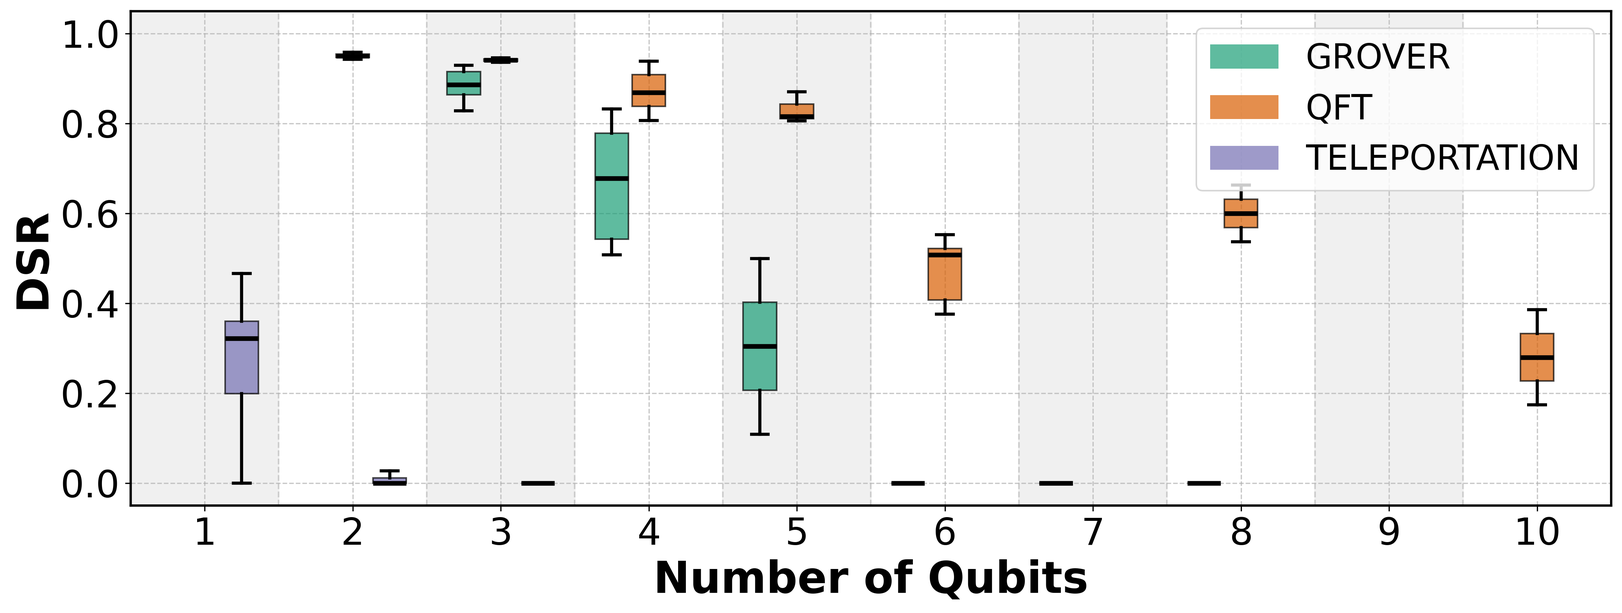
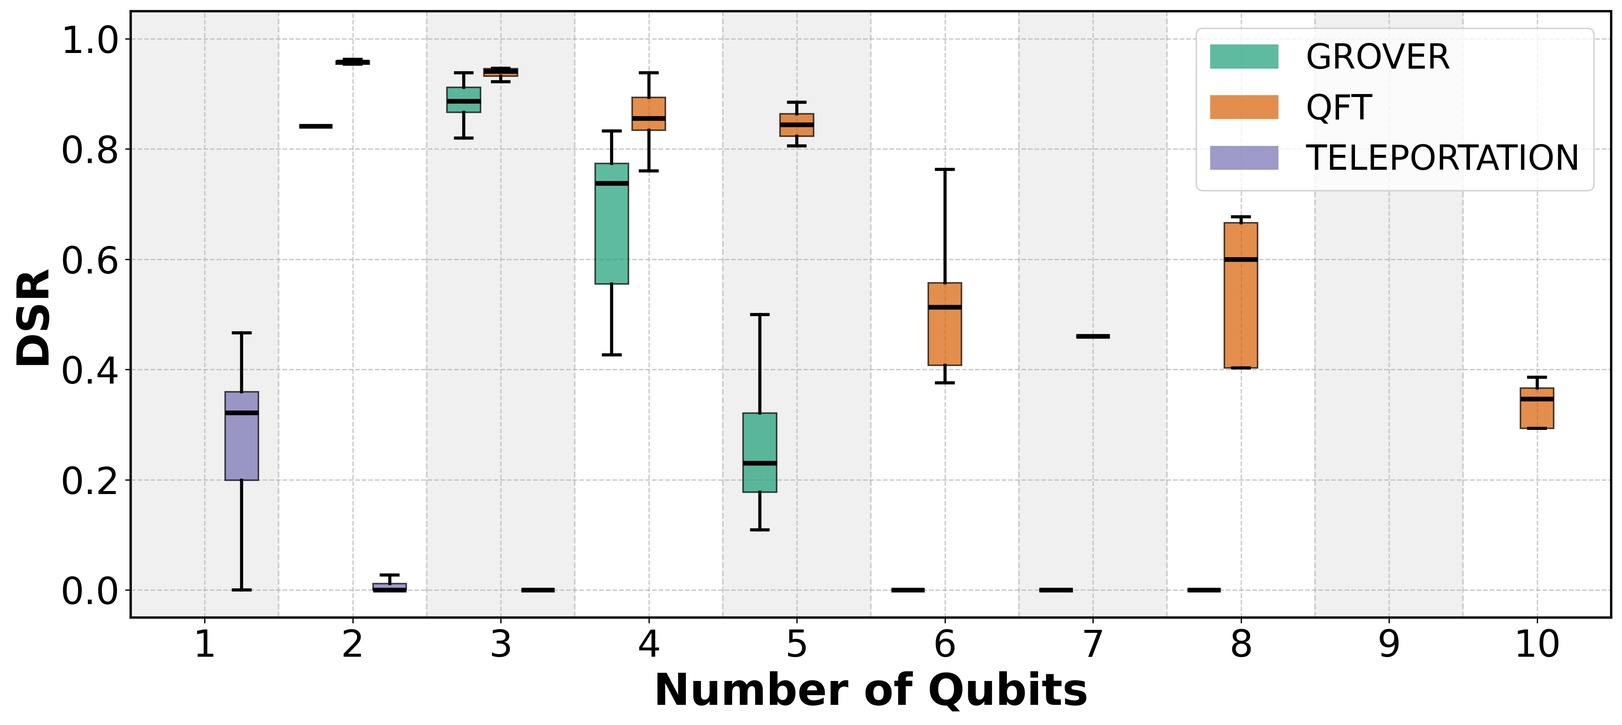
Update DSR analysis and visualizations in differential_success_rate_analysis.py and main.tex
This commit modifies the differential success rate (DSR) analysis by updating labels in plots to use a more precise mathematical notation. It also enhances the data preparation function to accept multiple optimization levels instead of a single one, improving flexibility in data filtering. Additionally, the title in main.tex is revised for clarity, and the introduction section is refined to better explain the DSR metric and its significance in quantum computing. Several plot files are updated to reflect these changes.

diff --git a/qward/examples/papers/main.tex b/qward/examples/papers/main.tex
@@ -60,7 +60,7 @@
     T\kern-.1667em\lower.7ex\hbox{E}\kern-.125emX}}
 \begin{document}
 
-\title{Differential Success Rate (DSR): A Distribution-Aware Metric for Validating Quantum Algorithm Outputs}
+\title{Differential Success Rate (DSR): A Distribution-Aware Score for Validating Quantum Algorithm Outputs}
 
 % \author{\IEEEauthorblockN{1\textsuperscript{st} Cristian Marquez}
 % \IEEEauthorblockA{\textit{Department of Systems and Computing Engineering} \\
@@ -120,48 +120,48 @@ Quantum computing, quantum software testing, fidelity metrics, quantum benchmark
 
 \section{Introduction}
 
-Ensuring successful execution of a program is a key requirement in software engineering. In classical computing, this process is done by directly comparing the observed output against an expected value. In other words, each execution produces a reproducible output. However, this deterministic validation model is not applicable in the QC realm, since in order to take advantage of quantum mechanics, it is required to run an algorithm multiple times and then analyze the resulting distribution to validate the execution success.
+Ensuring successful execution of a program is a key requirement in software engineering. In classical computing, this process is done by directly comparing the observed output against an expected value. In other words, each execution produces a reproducible output. However, this deterministic validation model is not applicable in the Quantum Computing (QC) realm, since in order to take advantage of quantum mechanics, it is required to run an algorithm multiple times and then analyze the resulting distribution to validate the execution success.
 
 In particular, a single run of a quantum algorithm produces a single classical state \cite{nielsenQuantumComputationQuantuma_2010}. Yet, to take advantage of quantum phenomena such as entanglement, superposition, and interference, it is necessary to construct a probability distribution over all possible outcomes by running the algorithm multiple times. Today, a histogram is typically used to represent this output, where the x-axis corresponds to the possible bit-string outcomes, and the y-axis counts the frequency of the observed values. By contrast, in hardware based on quantum annealing \cite{Hauke_2020_2020}, the output corresponds to the physical configuration of the system (a specific bit string) that represents the ground state (or a low-energy configuration). Another alternative to histograms is seen in variational algorithms \cite{McClean_2016_2016}, where quantum hardware outputs a real scalar value (the expected value of a cost function, such as energy), which is used as input to a classical optimizer to finally produce a bit-string result.
 
-The probability distributions described above are accessible through the SDKs or APIs provided by the quantum hardware vendors, most of which use superconducting qubits for the built-in quantum processing unit (QPU). A common feature of such SDKs is the ability to compute histograms of execution outcomes. This motivates the creation of a metric that quantifies how distinctly the expected outcomes stand out within the observed distribution.
+The probability distributions described above are accessible through the SDKs or APIs provided by the quantum hardware vendors, most of which use superconducting qubits for the built-in quantum processing unit (QPU). A common feature of such SDKs is the ability to compute histograms of execution outcomes. This motivates the creation of DSR, a score that quantifies how distinctly the expected outcomes stand out within the observed distribution.
 
-Before introducing such a metric, it is worth considering the applicability of classical performance metrics in quantum software; although doing so restricts the evaluation of quantum success to a classical paradigm in which the observed outcomes are fundamentally stochastic. More precisely, classical success measures can be defined at the shot level, but, because quantum processes require repeated executions to obtain meaningful results, the success measure should be formulated at the job level and, in some scenarios, even at the batch level.
+Before introducing such DSR, it is worth considering the applicability of classical performance metrics in quantum software; although doing so restricts the evaluation of quantum success to a classical paradigm in which the observed outcomes are fundamentally stochastic. More precisely, classical success measures can be defined at the shot level, but, because quantum processes require repeated executions to obtain meaningful results, the success measure should be formulated at the job level and, in some scenarios, even at the batch level.
 
-Several metrics have been proposed to quantify the successful execution of quantum circuits \cite{mohapatraBenchmarkingFidelityMetrics_2025}; however, most of them are designed to characterize the fidelity of the quantum hardware rather than to evaluate how distinctly a target outcome emerges in the observed distribution. Section~\ref{sec:related-work} explores these metrics in detail and positions the DSR relative to them.
+Several metrics have been proposed to quantify the successful execution of quantum circuits \cite{mohapatraBenchmarkingFidelityMetrics_2025}; however, most of them are designed to characterize the fidelity of the quantum hardware rather than to evaluate how distinctly a target outcome emerges in the observed distribution. Section~\ref{sec:related-work} explores these metrics in detail and positions DSR relative to them.
 
-In this paper, we introduce the differential success rate (DSR), a quantitative metric designed to measure the level of distinction of a target quantum state within a given histogram. The DSR is expressed as a percentage, thereby serving as an indicator of how clearly the expected quantum state emerges relative to the observed probability distribution generated by current noisy intermediate-scale quantum (NISQ) devices.
+In this paper, we introduce the differential success rate (DSR), a quantitative indicator designed to measure the level of distinction of a target quantum state within a given histogram. The DSR is expressed as a score in $[0,\,1]$, thereby serving as an indicator of how clearly the expected quantum state emerges relative to the observed probability distribution generated by current noisy intermediate-scale quantum (NISQ) devices.
 
-To characterize the behavior of DSR, we first execute the Grover and quantum Fourier transform algorithms using the AER simulator parameterized with the hardware calibration values reported for QPUs commonly available from major quantum service providers. The DSR metric is then integrated into qWard, a Python-based framework for the analysis of quantum circuits. Finally, we run the corresponding circuits on the physical QPUs \textit{ibm\_fez}, \textit{ibm\_torino}, and \textit{ibm\_marrakesh}---three instances of the IBM Heron~R2 processor---accessed via the IBM Quantum service, as well as on the Rigetti \textit{Ankaa-3} device accessed via Amazon Web Services (AWS).
+To characterize the behavior of DSR, we first execute the Grover and quantum Fourier transform algorithms using the AER simulator parameterized with calibration values reported for QPUs commonly available from major quantum service providers. DSR is then integrated into qWard, a Python-based framework for the analysis of quantum circuits. Finally, we run the corresponding circuits on the physical QPUs \textit{ibm\_fez}, \textit{ibm\_torino}, and \textit{ibm\_marrakesh}---three instances of the IBM Heron~R2 processor---accessed via the IBM Quantum service, as well as on the Rigetti \textit{Ankaa-3} device accessed via Amazon Web Services (AWS).
 
-Our experiments demonstrate the usefulness of the DSR metric for improving the interpretability of quantum jobs by defining clear ranges of success for the Grover and QFT algorithms, on two quantum providers (4 different QPUs). Such intervals are determined by systematically scaling and executing the algorithms, computing the DSR, and correlating its values with the corresponding number of qubits and the circuit depth. In addition, we empirically compare DSR against HF and TVDF, showing that the metrics capture complementary aspects of algorithm success.
+Our experiments demonstrate the usefulness of DSR for improving the interpretability of quantum jobs by defining clear ranges of success for the Grover and QFT algorithms, on two quantum providers (4 different QPUs). Such intervals are determined by systematically scaling and executing the algorithms, computing the DSR, and correlating its values with the corresponding number of qubits and the circuit depth. In addition, we empirically compare DSR against HF and TVDF, showing that the metrics capture complementary aspects of algorithm success.
 
-The remainder of this paper is organized as follows. Section~\ref{sec:background} presents background work. Section~\ref{sec:related-work} reviews related fidelity metrics. Section~\ref{sec:measuring-success} introduces the execution model and success criteria, while Section~\ref{sec:dsr} defines the DSR metric and evaluates alternative formulations. Section~\ref{subsec:experiment} describes the setup of the experiment, including workloads, backends, and variables. Section~\ref{sec:results} reports the empirical results: the relationship between DSR and qubit count, circuit depth, optimization level, and a statistical comparison with Hellinger and TVD fidelity. Section~\ref{sec:discussion} discusses limitations and validity considerations, and Section~\ref{sec:conclusion} concludes the paper.
+The remainder of this paper is organized as follows. Section~\ref{sec:background} presents background work. Section~\ref{sec:related-work} reviews related fidelity metrics. Section~\ref{sec:measuring-success} introduces the execution model and success criteria, while Section~\ref{sec:dsr} defines DSR and evaluates alternative formulations. Section~\ref{subsec:experiment} describes the setup of the experiment, including workloads, backends, and variables. Section~\ref{sec:results} reports the empirical results: the relationship between DSR and qubit count, circuit depth, optimization level, and a statistical comparison with Hellinger and TVD fidelity. Section~\ref{sec:discussion} discusses limitations and validity considerations, and Section~\ref{sec:conclusion} concludes the paper.
 
 \section{Background}
 \label{sec:background}
 
-This study builds on two previous studies \cite{qward2026, vTPMarquez_2026}. The first is the qWard project, a Python-based framework library designed for the analysis of quantum circuits and their executions. The second study presents our initial investigation into the execution success of quantum algorithms, as reported in IEEE Access in early 2026. In that work, we introduced a variation of the quantum teleportation protocol and proposed a systematic methodology to evaluate its success.
+This study builds on two previous studies \cite{qward2026, vTPMarquez_2026}. The first is the qWard project, a Python-based framework library designed for the analysis of quantum circuits and their executions. The second study presents our initial investigation into the execution success of quantum algorithms. In that work, we introduced a variation of the quantum teleportation protocol and proposed a systematic methodology to evaluate its success.
 
 With qWard, our aim was to describe quantum algorithms through a set of quantitative metrics computed prior to algorithm execution (designated as pre-runtime metrics). Following the execution of the algorithm, qWard further provides tools to analyze the resulting probability distribution by using a set of post-runtime metrics, with the aim of facilitating the identification of correlations between pre-runtime and post-runtime characteristics.
 
 To provide evidence for a correlation between pre-runtime and post-runtime metrics, we conducted a follow-up study examining how these metrics evolve under a variation of the teleportation protocol. Specifically, we first prepare a quantum circuit to transmit a message and then apply its transposed version with the objective of reconstructing the original input state before applying the measurement operation. In this experiment, the success function quantifies the number of instances in which the algorithm correctly reconstructs the initial state.
 
-Based on the findings of the two previous studies, we developed DSR as a post-runtime metric. These results allowed us to establish the necessary tooling for our quantum development workflow, in which we compute pre-runtime metrics, run the quantum algorithms, and finally compute post-runtime metrics in order to determine the success rate.
+These results allowed us to establish the necessary tooling for our quantum development workflow, in which we compute pre-runtime metrics, run the quantum algorithms, and finally compute post-runtime metrics to determine the success rate. Building on this workflow, we developed DSR as a post-runtime score.
 
 \section{Related work}
 \label{sec:related-work}
 
-In this section, we examine several standard metrics employed to quantify the successful execution of quantum algorithms and compare them with the DSR metric.
+In this section, we examine several standard metrics employed to quantify the successful execution of quantum algorithms and compare them with DSR.
 
-\subsection{Density-Matrix Based Fidelity}
+\subsection{Density-Matrix (DM) Based Fidelity}
 \label{sec:sec:desity-matrix}
 
 The validation of a quantum program via the density matrix constitutes a natural first step towards characterizing algorithm execution, and was presented in detail by Uhlmann in \cite{UHLMANN1976273_1976}. In summary, the density matrix fidelity (DM fidelity) process starts by calculating the theoretical value of the quantum operation. Then, the resulting density matrix is derived to compare it with the theoretical expectation and finally determine the discrepancy between the two values.
 
-Although DM fidelity is a robust way to validate the execution of a quantum algorithm, from the perspective of software engineering, it is highly impractical \cite{LI20146878_2014}. First, the QPU does not directly produce a density matrix; instead, it outputs classical bit strings. Reconstructing the density matrix would require performing full quantum state tomography, an operation that is computationally expensive, thereby making the procedure computationally infeasible in practice. Second, even though it is possible to generate the ideal state by using a simulator (for instance, AER), the size of the matrices grows exponentially with the number of qubits, so it is impossible to compute the ideal density matrix using classical resources. In other words, the target density matrix for practical applications is fundamentally unknown.
+Although DM fidelity is a robust way to validate the execution of a quantum algorithm, from the perspective of software engineering, it is highly impractical \cite{LI20146878_2014}. First, the QPU does not directly produce a density matrix; instead, it outputs bit strings. Reconstructing the density matrix would require performing full quantum state tomography, an operation that is computationally expensive, thereby making the procedure computationally infeasible in practice. Second, even though it is possible to generate the ideal state by using a simulator (for instance, AER), the size of the matrices grows exponentially with the number of qubits, so it is impossible to compute the ideal density matrix using classical resources. In other words, the target density matrix for practical applications is fundamentally unknown.
 
-\subsection{Estimated Success Probability}
+\subsection{Estimated Success Probability (ESP)}
 
 A typical way to evaluate how successfully a program runs is to estimate the success rate associated with each component involved in its operation. In the context of QC, this can be achieved by combining the success probabilities of individual operations (such as gates and measurements). During the calibration of a QPU, a quantum provider reports the error rate associated with each operation; therefore, the ESP is obtained by computing the success rate of each element (i.e. \(1 - \text{error}\)) and then taking the product of these success rates over all the circuit operations.
 
@@ -196,12 +196,12 @@ During the execution phase, the developer plans and executes a job on the QPU. A
 
 During the analysis phase, the developer pulls data from the quantum provider until the job is reported as complete. The quantum provider returns multiple bit strings that are ultimately consolidated into a histogram. With all responses ready, the goal now is to determine whether the response was successful. It is important to note that during the development phase, an initial version of the analysis is produced, but the analysis is often refined later, once the real data are available.
 
-The main goal of DSR is to facilitate the interpretation of quantum algorithm results and to act as a low-cost validation step at every stage of the development lifecycle. Because it depends on the histogram and the expected quantum state, this metric is meant to be applied in all the development phases described above whenever both requirements are met.
+The main goal of DSR is to facilitate the interpretation of quantum algorithm results and to act as a low-cost validation step at every stage of the development lifecycle. Because it depends on the histogram and the expected quantum state, this indicator is meant to be applied in all the development phases described above whenever both requirements are met.
 
 \section{Differential Success Rate}
 \label{sec:dsr}
 
-The DSR is defined as a metric that quantifies how well a target quantum state can be distinguished from the other values in a histogram. The DSR utilizes the Michelson contrast formulation \cite{michelsonInterferenceMethods_1890, michelsonStudiesOptics_1927} as it provides three characteristics that are desirable for validating QC algorithms: (i) scale invariance, since the DSR does not depend on the total number of shots, it captures the shape of the distribution rather than the size of the sampling budget; (ii) a bounded range in $[0, 1]$, to follow the conventions of the fidelity metrics; and (iii) sensitivity to the relative distinction between the expected outcome and the next strongest peak, rather than to the absolute success probability.
+The DSR is defined as a score that quantifies how well a target quantum state can be distinguished from the other values in a histogram. The DSR utilizes the Michelson contrast formulation \cite{michelsonInterferenceMethods_1890, michelsonStudiesOptics_1927} as it provides three characteristics that are desirable for validating QC algorithms: (i) scale invariance, since the total number of shots $S$ cancels out algebraically (see Equations~\eqref{eq:p_x}--\eqref{eq:dsr}), the score depends only on the relative strength between the expected outcomes and the strongest competitor; however, this property holds in practice only under sufficient sampling or low-noise conditions, as few shots may produce histograms that do not accurately reflect the algorithm outcome; (ii) a bounded range in $[0, 1]$, to follow the conventions of the fidelity metrics; and (iii) sensitivity to the dominance of the expected outcome over the strongest competitor, rather than to the absolute success probability.
 
 Although DSR eliminates the need for computationally expensive simulations of the ideal probability distribution, it still inherits the limitations of existing metrics derived from algorithm outcomes. These include the inability to capture information about phase-related errors and the restriction to problems for which the target state is known.
 
@@ -235,7 +235,7 @@ Based on these definitions, Equation~\eqref{eq:p_exp} represents the total proba
 
 Observe that when $S = 0$, the probability estimates $p_x$ are \emph{undefined} due to Equation~\eqref{eq:p_x}, and when $E$ is empty, $K = 0$ renders Equation~\eqref{eq:p_exp_bar} \emph{undefined}; in both cases the DSR is reported as 0. In contrast, if all observed states reside in $E$, then the set $\{x \notin E\}$ is \emph{empty}, and Equation~\eqref{eq:p_comp} has no terms. By convention, we set $p_{\text{comp}} = 0$, reflecting the absence of any competing outcome; substituting in Equation~\eqref{eq:dsr} results in $\mathrm{DSR} = \bar{p}_{\text{exp}}\,/\,\bar{p}_{\text{exp}} = 1$ (given $\bar{p}_{\text{exp}} > 0$).
 
-\subsection{Metric}
+\subsection{Formulation}
 
 Applying the Michelson contrast to $\bar{p}_{\text{exp}}$ and $p_{\text{comp}}$, the DSR is defined as:
 
@@ -315,7 +315,7 @@ Based on this analysis, we select the Michelson formulation to compute the DSR. 
 
 % \subsection{Software implementation}
 
-% To implement the metric in software, two dedicated functions are required. Listing~\ref{lst:peaks} presents the procedure used in the qWard library to extract $\bar{p}_{\text{exp}}$ and $p_{\text{comp}}$ from a histogram, while Listing~\ref{lst:dsr} demonstrates the application of Equation~\eqref{eq:dsr} to compute the final score.
+% To implement the indicator in software, two dedicated functions are required. Listing~\ref{lst:peaks} presents the procedure used in the qWard library to extract $\bar{p}_{\text{exp}}$ and $p_{\text{comp}}$ from a histogram, while Listing~\ref{lst:dsr} demonstrates the application of Equation~\eqref{eq:dsr} to compute the final score.
 
 % \begin{lstlisting}[caption={Extraction of $\bar{p}_{\text{exp}}$ and
 % $p_{\text{comp}}$ from a histogram.}, label=lst:peaks]
@@ -392,16 +392,16 @@ The independent variables of the experiment are the algorithm, the circuit confi
 \section{Results}
 \label{sec:results}
 
-This section presents the empirical results of 1{,}183 QPU runs covering jobs based on the Grover, QFT, and vTP algorithms (203, 184, and 796 jobs, respectively). Our analysis covers the DSR degration as a function of qubit count scaling and the circuit depth. We also benchmark DSR against HF and TVDF to highlight how their behaviors complement each other.
+This section presents the empirical results of 1{,}183 QPU runs covering jobs based on the Grover, QFT, and vTP algorithms (203, 184, and 796 jobs, respectively). Our analysis covers the DSR degradation as a function of qubit count scaling and the circuit depth. We also benchmark DSR against HF and TVDF to highlight how their behaviors complement each other.
 
 \subsection{DSR versus number of qubits}
 
-Figure~\ref{fig:combined_qubits} shows the DSR distribution of each algorithm as a function of the number of qubits, using the optimization level~3 offered by Qiskit.
+Figure~\ref{fig:combined_qubits} shows the DSR distribution of each algorithm as a function of the number of qubits, using optimization levels~2 and~3 offered by Qiskit.
 
 \begin{figure}[ht!]
   \centering
   \includegraphics[width=\columnwidth]{plots/1_combined_dsr_comparison.png}
-  \caption{DSR versus number of qubits for Grover search, QFT, and vTP at optimization level~3 (IBM and Rigetti backends).}
+  \caption{DSR versus number of qubits for Grover search, QFT, and vTP at optimization levels~2 and~3 (IBM and Rigetti backends).}
   \label{fig:combined_qubits}
 \end{figure}
 
@@ -409,7 +409,7 @@ Grover's algorithm achieves a median DSR of~0.89 at 3~qubits, drops to~0.68 at 4
 
 QFT degrades more slowly than Grover's search, maintaining a median DSR above~0.80 up to 5~qubits and still reporting~0.28 at 10~qubits. The slower decay is consistent with the shallower circuit structure of the QFT compared with Grover for equivalent qubit counts. 
 
-Finally, as reported in our previous study \cite{vTPMarquez_2026}, vTP remains near zero in all qubit counts (median~$\approx 0.22$), being effective only for payloads involving less than three qubits, which is expected given the dependency of CNOT operations when scaling the transported quantum state.
+Finally, as reported in our previous study \cite{vTPMarquez_2026}, vTP maintains a comparatively low DSR across all qubit counts (median~$\approx 0.22$), being effective only for payloads involving fewer than three qubits, which is expected given the dependency of CNOT operations when scaling the transported quantum state.
 
 \subsection{DSR versus depth}
 
@@ -472,7 +472,7 @@ For Grover on Rigetti Ankaa-3 (Figure~\ref{fig:grover_metric_comparison_aws}), t
 
 Comparing the two providers reveals that DSR demonstrates a threshold-like behavior associated with the noise level of the backend. In IBM Heron~R2 hardware\footnote{IBM Quantum Platform, backend calibration data: \url{https://quantum.cloud.ibm.com/computers}. Accessed February 2026.}, where two-qubit gate errors are approximately $2.6 \times 10^{-3}$ and readout errors $1.3 \times 10^{-2}$, DSR remains above HF and TVDF at intermediate qubit counts. In contrast, for Rigetti Ankaa-3\footnote{Rigetti Quantum Cloud Services, QPU specifications: \url{https://qcs.rigetti.com/qpus}. Accessed February 2026.}, where two-qubit gate errors are roughly twice as large ($5 \times 10^{-3}$) and readout errors reach $2 \times 10^{-2}$, DSR is the first metric to collapse to zero (Grover at 3~qubits: $\delta = -0.93$, $p_{\text{corr}} < 0.001$). The asymmetry exhibited by the DSR confirms that the expected states stand out above the strongest competitor, and once this peak separation collapses, it produces a binary pass/fail outcome. In contrast, HF and TVDF, which are derived from distributional overlap, exhibit a more continuously declining performance profile.
 
-The QFT results (Table~\ref{tab:stat_comparison}) exhibit the threshold-like behavior observed in Grover. In IBM, DSR remains higher than both HF and TVD-F at 5~quabits (median~$0.84$ vs.\ $0.65$; $\delta = +1.00$, $p_{\text{corr}} = 0.062$) and at 10~quabits ($0.35$ vs.\ $0.13$; $\delta = +0.88$), whereas at 6~quabits the three metrics become comparable ($p_{\text{corr}} = 0.645$, $\delta = -0.01$). On the Rigetti platform, the QFT exhibits an early-collapse phenomenon analogous to that observed for Grover’s algorithm. At 4 qubits ($n=25$), DSR falls to ~$0.00$, whereas HF and TVD-F remain at~$0.29$ ($p_{\text{corr}} = 0.008$, $\delta = -0.45$). At 5 qubits, the discrepancy becomes even more pronounced ($p_{\text{corr}} = 0.003$, $\delta = -0.72$).
+The QFT results (Table~\ref{tab:stat_comparison}) exhibit the threshold-like behavior observed in Grover. In IBM, DSR remains higher than both HF and TVD-F at 5~qubits (median~$0.84$ vs.\ $0.65$; $\delta = +1.00$, $p_{\text{corr}} = 0.062$) and at 10~qubits ($0.35$ vs.\ $0.13$; $\delta = +0.88$), whereas at 6~qubits the three metrics become comparable ($p_{\text{corr}} = 0.645$, $\delta = -0.01$). On the Rigetti platform, the QFT exhibits an early-collapse phenomenon analogous to that observed for Grover’s algorithm. At 4 qubits ($n=25$), DSR falls to ~$0.00$, whereas HF and TVD-F remain at~$0.29$ ($p_{\text{corr}} = 0.008$, $\delta = -0.45$). At 5 qubits, the discrepancy becomes even more pronounced ($p_{\text{corr}} = 0.003$, $\delta = -0.72$).
 
 \begin{table*}[ht!]
   \centering
@@ -530,11 +530,11 @@ accurate evaluation. Third, backend calibration drift between jobs may introduce
 \section{Conclusion}
 \label{sec:conclusion}
 
-In this paper, we introduce the Differential Success Rate (DSR), a fidelity metric designed to validate the outputs of quantum algorithms. The DSR quantifies how distinctly a predefined set of expected outcomes stands out within the measurement histogram of a quantum job. To this end, the DSR adopts the Michelson contrast formulation to create a scale-invariant score within the interval $[0, 1]$, providing insight into whether a given quantum algorithm performs as expected.
+In this paper, we introduce the Differential Success Rate (DSR), a score designed to assess the outputs of quantum algorithms. The DSR quantifies how distinctly a predefined set of expected outcomes stands out within the measurement histogram of a quantum job. To this end, the DSR adopts the Michelson contrast formulation to create a normalized score within the interval $[0, 1]$, providing insight into whether a given quantum algorithm performs as expected.
 
 In the initial part of this study, four different formulations are evaluated to identify the one that best captures the performance degradation across quantum executions. The Michelson formulation is compared with the ratio, logarithmic ratio, and normalized margin methods and ultimately demonstrates superior performance, due to its wider dynamic range and its sensitivity to early performance degradation.
 
-To empirically evaluate the capabilities of DSR, we calculate DSR on 1{,}183 quantum jobs on two distinct quantum service providers (IBM Quantum and Rigetti via Amazon Web Services). These experiments include Grover’s search, the Quantum Fourier Transform, and the variation of the teleportation protocol, and are executed in four quantum processing units. The results indicate that DSR accurately captures the degradation in performance, showing scores above~$0.80$ for small circuits, and progressively decreases as the quantum operations present in the algorithm increase. Additionally, we characterize the effect of circuit optimization by analyzing the mean DSR as a function of the qubit count and optimization level. Finally, we compare DSR with HF and TVDF. Since the DSR response on IBM hardware consistently exceeds the distribution-level metrics, while on a noisier Rigetti QPU it is the first metric to signal complete algorithmic failure. In contrast, HF and TVDF, degrade more slowly in both platforms. We conclude that DSR acts as a threshold for defining the successful execution of quantum circuits.
+To empirically evaluate the capabilities of DSR, we calculate DSR on 1{,}183 quantum jobs on two distinct quantum service providers (IBM Quantum and Rigetti via Amazon Web Services). These experiments include Grover’s search, the Quantum Fourier Transform, and the variation of the teleportation protocol, and are executed in four quantum processing units. The results indicate that DSR accurately captures the degradation in performance, showing scores above~$0.80$ for small circuits, and progressively decreases as the quantum operations present in the algorithm increase. Additionally, we characterize the effect of circuit optimization by analyzing the median DSR as a function of the qubit count and optimization level. Finally, we compare DSR with HF and TVDF. Since the DSR response on IBM hardware consistently exceeds the distribution-level metrics, while on a noisier Rigetti QPU it is the first metric to signal complete algorithmic failure. In contrast, HF and TVDF, degrade more slowly in both platforms. We conclude that DSR acts as a threshold for defining the successful execution of quantum circuits.
 
 In future work, we plan to create automated benchmarking pipelines for continuous monitoring of algorithm performance on different quantum providers and to generate a dashboard to visualize the performance history. We also intend to train neural networks to predict DSR values. Finally, we plan to benchmark the hardware-level gate fidelities with the DSR values to determine whether DSR can serve as a lightweight proxy for circuit-level quality characterization.
 

diff --git a/qward/examples/papers/differential_success_rate_analysis.py b/qward/examples/papers/differential_success_rate_analysis.py
@@ -495,7 +495,7 @@ def _plot_algorithm_boxplot(
         color="black",
         linewidth=3,
         markersize=14,
-        label="Median DSR",
+        label=r"$\widetilde{\mathbf{DSR}}$",
         zorder=5,
     )
 
@@ -764,7 +764,7 @@ def _plot_algorithm_heatmap(
     # Colorbar with larger font
     cbar = fig.colorbar(mesh, ax=ax, shrink=0.8)
     cbar.ax.tick_params(labelsize=TICK_SIZE)
-    cbar.set_label("DSR", fontsize=LABEL_SIZE, fontweight="bold")
+    cbar.set_label(r"$\widetilde{\mathbf{DSR}}$", fontsize=LABEL_SIZE, labelpad=8)
 
     plt.tight_layout()
     output_dir.mkdir(parents=True, exist_ok=True)
@@ -790,7 +790,7 @@ _COMBINED_MAX_DEPTH = {
 
 def _prepare_combined_data(
     rows: List[Dict[str, str]],
-    optimization_level: Optional[str] = "3",
+    optimization_levels: Optional[Tuple[str, ...]] = ("2", "3"),
 ) -> Tuple[List[str], List[float], Dict[str, List[Dict[str, str]]]]:
     """Extract per-algorithm filtered data and the union of qubit counts.
 
@@ -799,8 +799,8 @@ def _prepare_combined_data(
 
     Args:
         rows: All loaded CSV rows.
-        optimization_level: If set, keep only rows with this optimization
-            level.  Pass ``None`` to include all levels.
+        optimization_levels: If set, keep only rows whose optimization level
+            is in this tuple.  Pass ``None`` to include all levels.
 
     Returns:
         (algorithms, qubits, filtered_data) where *filtered_data* maps each
@@ -813,11 +813,11 @@ def _prepare_combined_data(
     for algo in algorithms:
         algo_rows = [r for r in rows if r.get("algorithm") == algo]
         # Filter by optimization level (skip for algorithms without opt data)
-        if optimization_level is not None:
+        if optimization_levels is not None:
             has_opt = any(r.get("optimization_level", "") != "" for r in algo_rows)
             if has_opt:
                 algo_rows = [
-                    r for r in algo_rows if r.get("optimization_level", "") == optimization_level
+                    r for r in algo_rows if r.get("optimization_level", "") in optimization_levels
                 ]
         # Apply depth filter
         max_depth = _COMBINED_MAX_DEPTH.get(algo)
@@ -937,7 +937,7 @@ def _plot_combined_comparison(
     if not qubits:
         return
 
-    fig, ax = plt.subplots(figsize=(15, 6))
+    fig, ax = plt.subplots(figsize=(15, 7))
     _render_combined_comparison(ax, algorithms, qubits, filtered_data)
 
     plt.tight_layout()
@@ -967,7 +967,7 @@ def _plot_combined_depth_comparison(
     the same circuit).  Uses 200-unit bins capped at 800 for readability.
     """
     # Use optimization_level=None to include all levels
-    algorithms, _qubits, filtered_data = _prepare_combined_data(rows, optimization_level=None)
+    algorithms, _qubits, filtered_data = _prepare_combined_data(rows, optimization_levels=None)
 
     # Bin depths and collect DSR values per (algo, bin_start)
     bin_sz = _COMBINED_DEPTH_BIN
@@ -1148,7 +1148,7 @@ def _plot_qft_heatmap_by_optimization(
     apply_axes_defaults(ax)
 
     cbar = fig.colorbar(im, ax=ax, shrink=0.8)
-    cbar.set_label("DSR", fontsize=LABEL_SIZE, fontweight="bold")
+    cbar.set_label(r"$\widetilde{\mathbf{DSR}}$", fontsize=LABEL_SIZE, labelpad=8)
 
     plt.tight_layout()
     output_dir.mkdir(parents=True, exist_ok=True)
